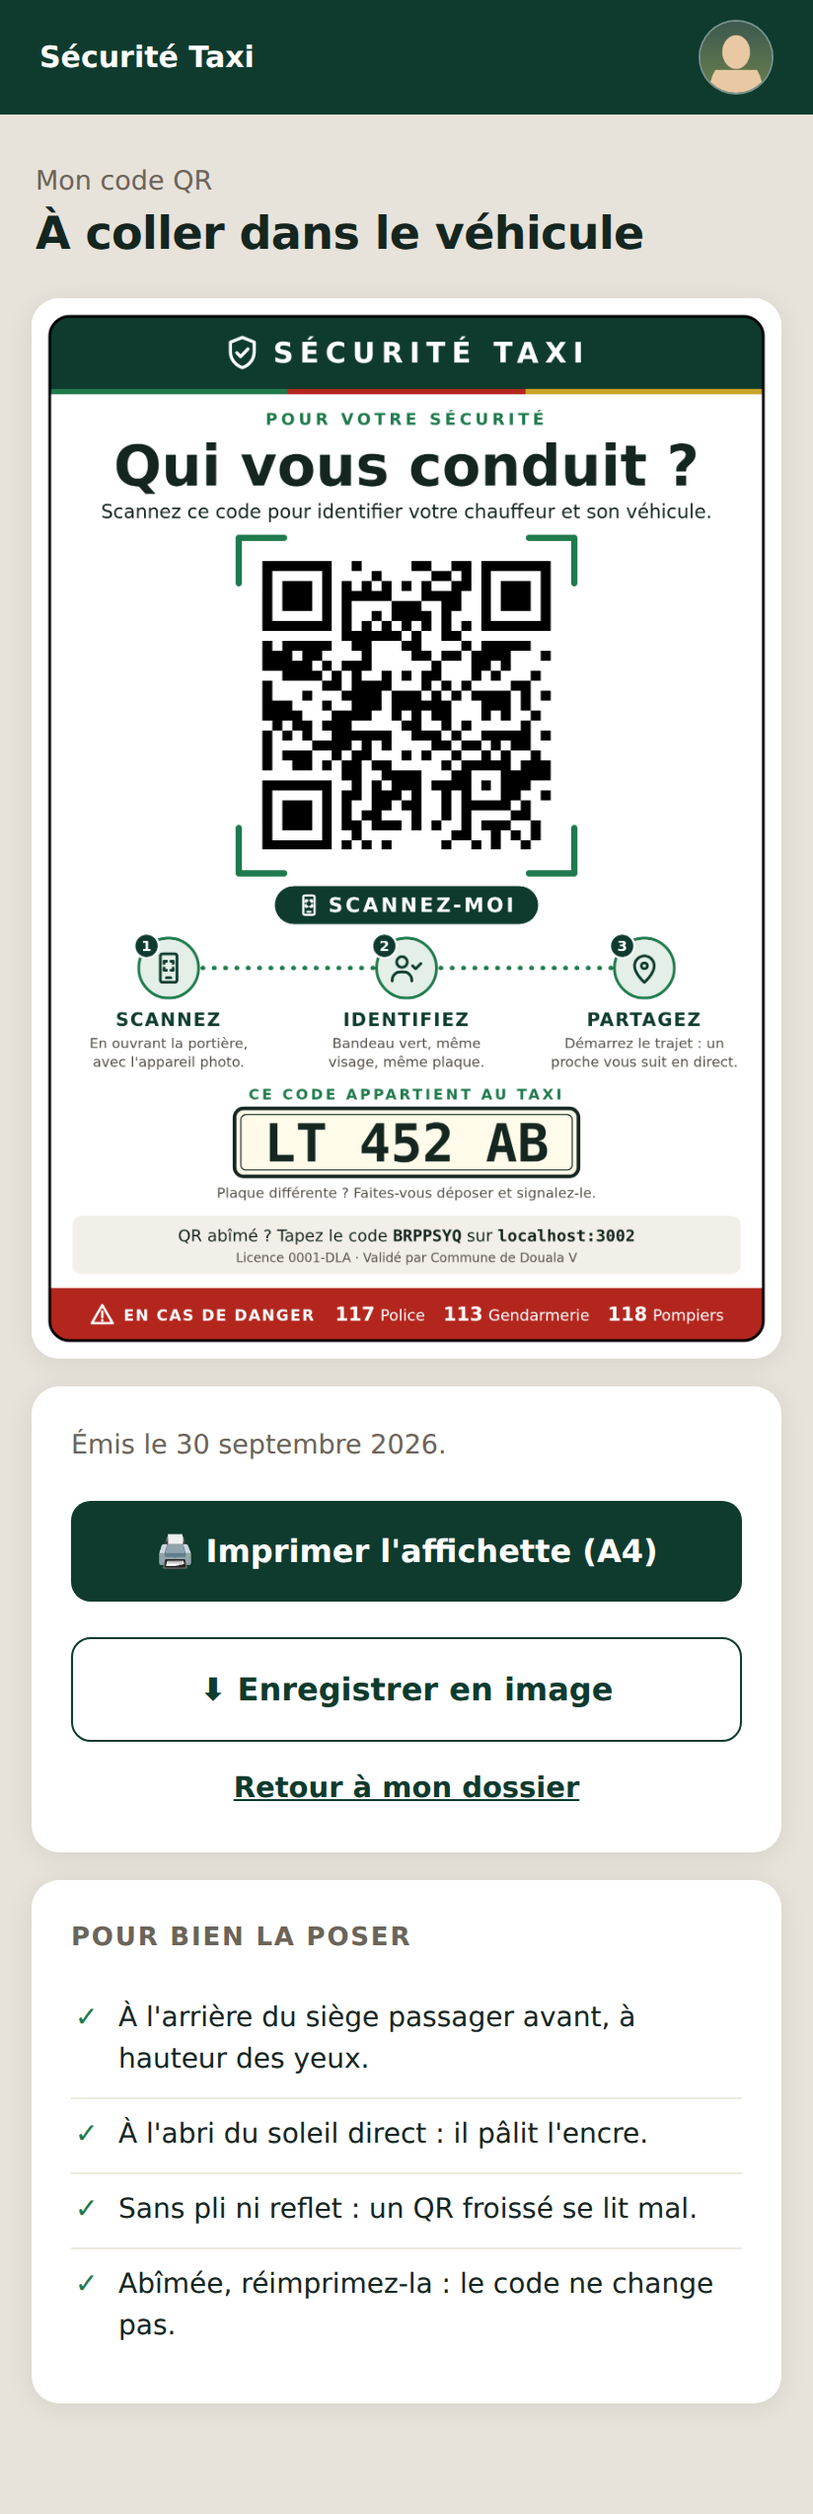
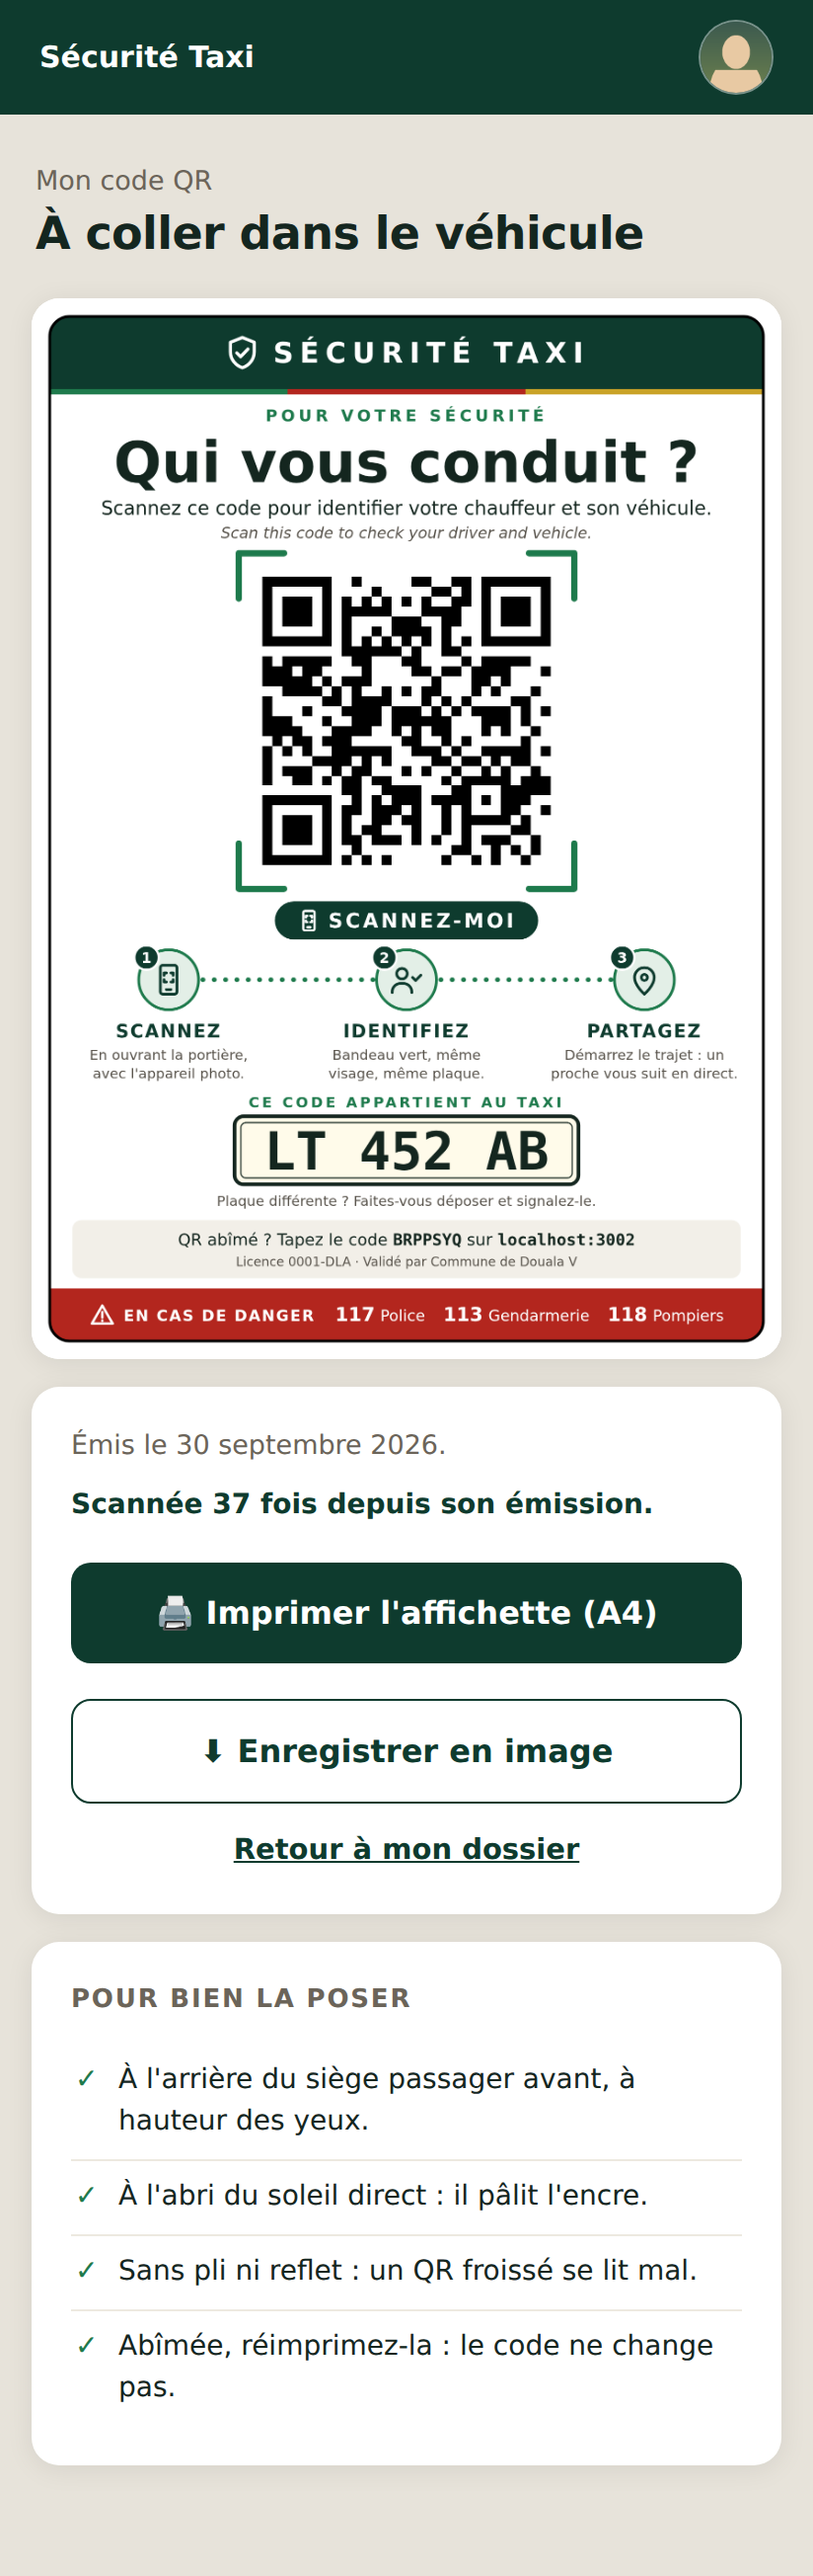
Met à jour Sécurité Taxi : affichette bilingue, chiffres du jour
- L'affichette porte sa consigne en français et en anglais ; la page
  dit combien de fois elle a été scannée.
- 27 000 lignes de code et 58 itérations, sur la carte comme dans le
  détail (la carte disait encore 39).

diff --git a/index.html b/index.html
@@ -558,7 +558,7 @@ footer{
         <h3>Sécurité Taxi Cameroun</h3>
         <p class="role">Sécurité des transports en commun</p>
         <p class="accroche-carte">L'information arrive avant la décision.</p>
-        <div class="mini-faits"><div class="mini-fait"><b>23 000</b><span>lignes de code</span></div><div class="mini-fait"><b>4</b><span>parcours distincts</span></div><div class="mini-fait"><b>39</b><span>itérations</span></div></div>
+        <div class="mini-faits"><div class="mini-fait"><b>27 000</b><span>lignes de code</span></div><div class="mini-fait"><b>4</b><span>parcours distincts</span></div><div class="mini-fait"><b>58</b><span>itérations</span></div></div>
         <div class="piles"><span class="pile">NestJS</span><span class="pile">TypeScript</span><span class="pile">PostgreSQL</span><span class="pile">Docker</span><span class="pile discret">+4</span></div>
         <span class="carte-aller">Voir le détail <span aria-hidden="true">→</span></span>
       </button>
@@ -1052,9 +1052,9 @@ footer{
           jours et les sauvegardes chiffrées, comme l'exige la loi n° 2024/017.
         </p>
         <div class="faits">
-          <div class="fait"><div class="n">23 000</div><div class="q">lignes de code</div></div>
+          <div class="fait"><div class="n">27 000</div><div class="q">lignes de code</div></div>
           <div class="fait"><div class="n">4</div><div class="q">parcours distincts</div></div>
-          <div class="fait"><div class="n">43</div><div class="q">itérations</div></div>
+          <div class="fait"><div class="n">58</div><div class="q">itérations</div></div>
         </div>
         <div class="piles">
           <span class="pile">NestJS</span><span class="pile">TypeScript</span>
@@ -1066,7 +1066,7 @@ footer{
       </div>
       <div class="galerie large">
         <figure class="vue"><img src="captures/taxi/scan-registre.png" alt="Scan du code QR d'un taxi de Yaoundé, certifié par le registre de la commune : numéro de portière et plaque conformes au registre" loading="lazy"><figcaption>Scan avant de monter</figcaption></figure>
-        <figure class="vue"><img src="captures/taxi/9-qr.png" alt="Affichette à coller dans le taxi : « Qui vous conduit ? », le QR à scanner dans un viseur, trois étapes, la plaque du taxi et les numéros d'urgence" loading="lazy"><figcaption>Affichette du taxi</figcaption></figure>
+        <figure class="vue"><img src="captures/taxi/9-qr.png" alt="Affichette à coller dans le taxi : « Qui vous conduit ? », la consigne en français et en anglais, le QR à scanner dans un viseur, trois étapes, la plaque du taxi et les numéros d'urgence" loading="lazy"><figcaption>Affichette du taxi</figcaption></figure>
         <figure class="vue"><img src="captures/taxi/2-trajet.png" alt="Suivi du trajet en direct : tracé, durée, distance, et les proches prévenus par SMS" loading="lazy"><figcaption>Suivi en direct</figcaption></figure>
         <figure class="vue bas"><img src="captures/taxi/3-alerte.png" alt="Alerte d'urgence : la barre fixée en bas de l'écran dit qui a été prévenu par SMS" loading="lazy"><figcaption>Alerte d'urgence</figcaption></figure>
         <figure class="vue"><img src="captures/taxi/agent-examen.png" alt="Examen d'un dossier par un agent" loading="lazy"><figcaption>Examen par l'autorité</figcaption></figure>
